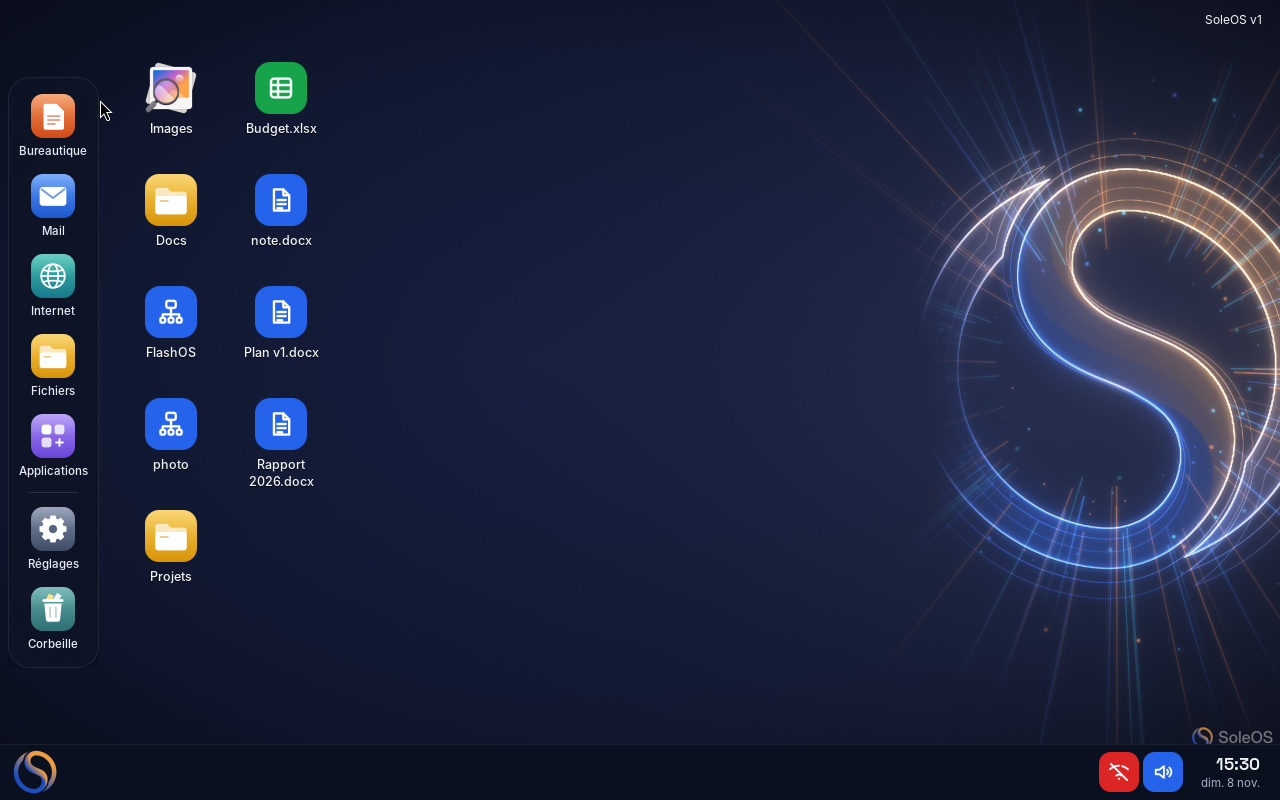
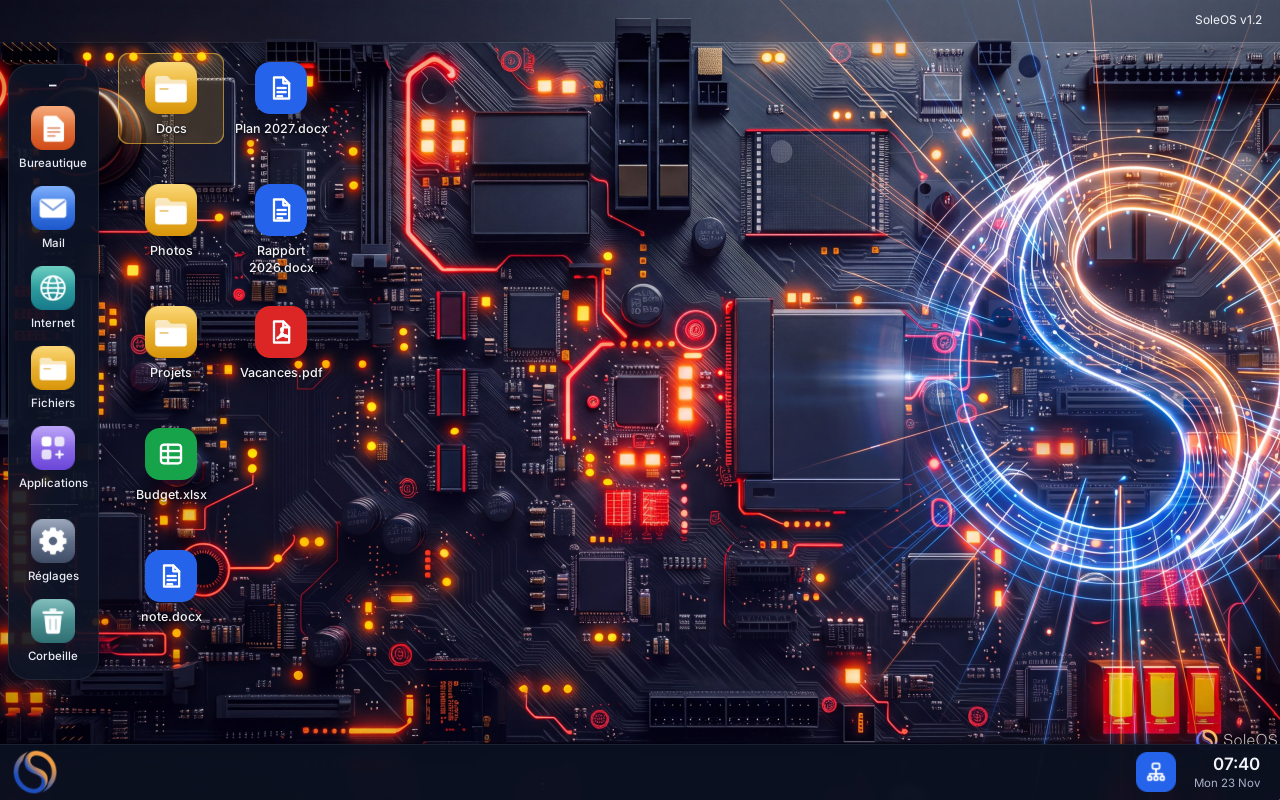
Update README (English) and screenshot

diff --git a/README.md b/README.md
@@ -1,26 +1,28 @@
-<p align="center"><img src="docs/captures/bureau.png" alt="Le bureau de SoleOS" width="720"></p>
+<p align="center"><img src="docs/captures/bureau.png" alt="The SoleOS desktop" width="720"></p>
+
+<p align="right"><a href="README.fr.md">Version française</a></p>
 
 # SoleOS
 
-**Un ordinateur simple, rapide et sûr, sans compte, sans publicité, sans télémétrie.**
-SoleOS est un système d'exploitation basé sur Debian 13, avec une interface écrite en Rust/GTK 4.
-Il est pensé pour les gens qui veulent un ordinateur qui marche, sans administration.
+**A simple, fast and secure computer: no account, no ads, no telemetry.**
+SoleOS is an operating system based on Debian 13, with an interface written in Rust/GTK 4.
+It is made for people who want a computer that just works, with no administration.
 
-*A simple, fast and private operating system based on Debian 13. Available in French, English, Italian, Spanish, German and Chinese.*
+**Download**: the latest version (an ISO to copy to a USB stick) is in [Releases](https://github.com/SoleOS-project/SoleOS/releases/latest).
 
-## Ce que fait SoleOS
+## What SoleOS does
 
-- **Facile** : une barre d'applications à gauche, un menu « S » en bas à gauche, des réglages en grandes cartes. Trois questions au premier démarrage, et c'est prêt.
-- **Vos fichiers sont chiffrés** : un code à 6 chiffres (puce TPM) ou un mot de passe, et une clé de secours sur papier.
-- **Mises à jour invisibles** : préparées sur une deuxième copie du système, appliquées au redémarrage, avec retour automatique en arrière en cas de problème.
-- **Sauvegarde en un clic** vers une clé USB, un disque ou un NAS, chaque semaine si vous le voulez. Rien n'est jamais effacé dans la sauvegarde.
-- **Mode grand confort** : textes plus grands et pointeur bien visible.
-- **Réparation intégrée** : remise à neuf du système en gardant vos fichiers (Réglages → Réparer ou réinitialiser).
-- **Nouvelle version sans tout réinstaller** (depuis la v1.2) : démarrez sur la clé de la nouvelle version et choisissez « Mettre à jour SoleOS » ; fichiers, applications, mails, navigateur, réglages et code sont gardés.
-- **Notifications** : nouveaux mails signalés par une enveloppe dans la barre du bas.
-- **Vie privée** : aucun compte, aucune télémétrie, rien n'est envoyé sans votre accord ; navigateur sans publicités ni traqueurs, cookies tiers bloqués.
-- **Applications** : LibreOffice, Thunderbird, Chromium, VLC, KeePassXC, et la logithèque Flathub ; paquets `.deb` et AppImage acceptés dans un espace séparé.
-- **6 langues** : français, anglais, italien, espagnol, allemand, chinois simplifié.
+- **Easy**: an app bar on the left, an “S” menu at the bottom left, settings shown as large cards. Three questions at first start, and you are ready.
+- **Your files are encrypted**: a 6-digit code (TPM chip) or a password, plus a recovery key on paper.
+- **Invisible updates**: prepared on a second copy of the system, applied at restart, with automatic rollback if something goes wrong.
+- **New versions without reinstalling** (since v1.2): start from the USB stick of the new version and choose “Update SoleOS”; files, apps, emails, browser, settings and code are all kept.
+- **One-click backup** to a USB stick, a disk or a NAS, every week if you like. Nothing is ever deleted from the backup.
+- **Notifications**: new emails shown by an envelope in the bottom bar.
+- **Comfort mode**: larger text and a highly visible pointer.
+- **Built-in repair**: the system is restored as new while your files are kept (Settings → Repair or reset).
+- **Privacy**: no account, no telemetry, nothing is sent without your consent; browser without ads or trackers, third-party cookies blocked.
+- **Apps**: LibreOffice, Thunderbird, Chromium, VLC, KeePassXC, and the Flathub catalogue; `.deb` packages and AppImages accepted in a separate space.
+- **6 languages**: French, English, Italian, Spanish, German, Simplified Chinese.
 
 <p align="center">
 <img src="docs/captures/reglages.png" width="400"> <img src="docs/captures/sauvegarde.png" width="400">
@@ -28,58 +30,58 @@ Il est pensé pour les gens qui veulent un ordinateur qui marche, sans administr
 
 ## Documentation
 
-- [Guide d'utilisation (PDF)](docs/SoleOS-v1-guide-utilisation.pdf)
-- [Fiche technique (PDF)](docs/SoleOS-v1-fiche-technique.pdf)
+- [User guide (PDF, French)](docs/SoleOS-v1-guide-utilisation.pdf)
+- [Technical sheet (PDF, French)](docs/SoleOS-v1-fiche-technique.pdf)
 
-## Configuration conseillée
+## Recommended hardware
 
-Processeur x86-64 (Intel, AMD), 4 Go de mémoire (8 Go conseillés), 32 Go de disque (SSD conseillé), UEFI (Secure Boot accepté) ou BIOS, puce TPM 2.0 conseillée. PC très récent : noyau récent proposé au démarrage de la clé (Échap) et dans Réglages → À propos.
+x86-64 processor (Intel, AMD), 4 GB of memory (8 GB recommended), 32 GB of disk (SSD recommended), UEFI (Secure Boot supported) or BIOS, TPM 2.0 chip recommended. Very recent PC: a recent kernel is offered when starting from the USB stick (Esc) and in Settings → About.
 
-## Fabriquer l'image ISO
+## Building the ISO image
 
-Sur une machine Debian 13 (amd64), en root, avec tout le contenu de ce dépôt dans un même dossier :
+On a Debian 13 (amd64) machine, as root, with the whole content of this repository in one folder:
 
 ```sh
 bash construire-iso-soleos.sh
 ```
 
-Résultat : `SoleOS-v1.2.iso` et son empreinte `SoleOS-v1.2.iso.sha256`. Copiez l'ISO sur une clé USB (par exemple avec `dd` ou Balena Etcher), démarrez dessus : la clé s'ouvre en mode essai, puis propose **Installer SoleOS sur cet ordinateur**.
+Result: `SoleOS-v1.2.iso` and its checksum `SoleOS-v1.2.iso.sha256`. Copy the ISO to a USB stick (for example with `dd` or balenaEtcher) and start from it: the stick opens in try mode, then offers **Install SoleOS on this computer** (or **Update SoleOS** if it is already installed).
 
-Recompiler l'interface (facultatif, les programmes compilés sont fournis) :
+Rebuilding the interface (optional, compiled programs are included):
 
 ```sh
 cd source/soleos-accueil && cargo build --release
 ```
 
-> Depuis la v1.1, tous les noms techniques sont `soleos-*` (commandes, services, partitions `SOLEOS-*`, `ID=soleos`). Les anciens noms `flashos-*` (nom de travail du projet) restent reconnus sur les ordinateurs installés avant la v1.1.
+> The source code, comments and file names are in French, the project's working language.
 
-## Contenu du dépôt
+## Repository content
 
-| Dossier / fichier | Rôle |
+| Folder / file | Purpose |
 |---|---|
-| `construire-iso-soleos.sh` | construction de l'ISO |
-| `soleos-accueil`, `soleos-applications`, `soleos-installateur`, `soleos-bluetooth` | interface compilée (Rust) |
-| `soleos-installer`, `soleos-systeme`, `soleos-securite` | outils système (bash) : installation, mises à jour A/B, chiffrement |
-| `source/` | code source de l'interface et des outils |
-| `locale/`, `po/` | traductions (6 langues) |
-| `fonds/`, `polices/`, `craft/` | fonds d'écran, polices, icônes |
-| `outils/` | logo, fichiers système, utilitaires |
-| `docs/` | guide, fiche technique, captures |
-| `chuwi-son/` | haut-parleurs du Chuwi CoreBook Air Plus : [Chuwi-CoreBook-Air-Audio-Fix](https://github.com/avrora13377/Chuwi-CoreBook-Air-Audio-Fix) (licence MIT, merci à ses auteurs) |
+| `construire-iso-soleos.sh` | ISO build script |
+| `soleos-accueil`, `soleos-applications`, `soleos-installateur`, `soleos-bluetooth` | compiled interface (Rust) |
+| `soleos-installer`, `soleos-systeme`, `soleos-securite` | system tools (bash): installation, A/B updates, encryption |
+| `source/` | source code of the interface and tools |
+| `locale/`, `po/` | translations (6 languages) |
+| `fonds/`, `polices/`, `craft/` | wallpapers, fonts, icons |
+| `outils/` | logo, system files, utilities |
+| `docs/` | guide, technical sheet, screenshots, test reports |
+| `chuwi-son/` | Chuwi CoreBook Air Plus speakers: [Chuwi-CoreBook-Air-Audio-Fix](https://github.com/avrora13377/Chuwi-CoreBook-Air-Audio-Fix) (MIT licence, thanks to its authors) |
 
-## Signaler un problème
+## Reporting a problem
 
-Dans SoleOS : menu **S** → **Signaler un problème** (un message est préparé avec un relevé technique, sans aucun mot de passe).
-Ou ouvrez une *issue* sur ce dépôt en décrivant l'ordinateur (marque, modèle) et le problème.
+In SoleOS: **S** menu → **Report a problem** (a message is prepared with a technical report, without any password).
+Or open an *issue* on this repository, describing the computer (brand, model) and the problem.
 
 ## Licence
 
-**SoleOS est gratuit, mais pas pour faire de l'argent avec.**
+**SoleOS is free, but not for making money with it.**
 
-- ✅ **Gratuit** pour les particuliers, les associations sans but lucratif (y compris lorsqu'elles revendent des ordinateurs reconditionnés), les écoles, les administrations, et l'usage interne des entreprises.
-- 💼 **Usage commercial** (vente d'ordinateurs équipés de SoleOS, service payant, intégration dans un produit…) : une licence est nécessaire. Contact : **gdarco7@gmail.com**
+- ✅ **Free** for individuals, non-profit associations (including when they sell refurbished computers), schools, public administrations, and internal use in companies.
+- 💼 **Commercial use** (selling computers with SoleOS, paid services, integration into a product…): a licence is required. Contact: **gdarco7@gmail.com**
 
-Licence : [PolyForm Noncommercial 1.0.0](https://polyformproject.org/licenses/noncommercial/1.0.0/) avec autorisations supplémentaires, voir [LICENSE](LICENSE).
-SoleOS est fourni « tel quel », sans garantie. Les logiciels tiers inclus (Debian, LibreOffice, Chromium…) gardent leurs propres licences.
+Licence: [PolyForm Noncommercial 1.0.0](https://polyformproject.org/licenses/noncommercial/1.0.0/) with additional permissions, see [LICENSE](LICENSE).
+SoleOS is provided “as is”, without warranty. Included third-party software (Debian, LibreOffice, Chromium…) keeps its own licences.
 
-© 2026 GDH — créé par Giuseppe D'Arco.
+© 2026 GDH — created by Giuseppe D'Arco.

diff --git a/README.fr.md b/README.fr.md
@@ -1,0 +1,87 @@
+<p align="center"><img src="docs/captures/bureau.png" alt="Le bureau de SoleOS" width="720"></p>
+
+<p align="right"><a href="README.md">English version</a></p>
+
+# SoleOS
+
+**Un ordinateur simple, rapide et sûr, sans compte, sans publicité, sans télémétrie.**
+SoleOS est un système d'exploitation basé sur Debian 13, avec une interface écrite en Rust/GTK 4.
+Il est pensé pour les gens qui veulent un ordinateur qui marche, sans administration.
+
+**Télécharger** : la dernière version (ISO à copier sur une clé USB) est dans [Releases](https://github.com/SoleOS-project/SoleOS/releases/latest).
+
+## Ce que fait SoleOS
+
+- **Facile** : une barre d'applications à gauche, un menu « S » en bas à gauche, des réglages en grandes cartes. Trois questions au premier démarrage, et c'est prêt.
+- **Vos fichiers sont chiffrés** : un code à 6 chiffres (puce TPM) ou un mot de passe, et une clé de secours sur papier.
+- **Mises à jour invisibles** : préparées sur une deuxième copie du système, appliquées au redémarrage, avec retour automatique en arrière en cas de problème.
+- **Sauvegarde en un clic** vers une clé USB, un disque ou un NAS, chaque semaine si vous le voulez. Rien n'est jamais effacé dans la sauvegarde.
+- **Mode grand confort** : textes plus grands et pointeur bien visible.
+- **Réparation intégrée** : remise à neuf du système en gardant vos fichiers (Réglages → Réparer ou réinitialiser).
+- **Nouvelle version sans tout réinstaller** (depuis la v1.2) : démarrez sur la clé de la nouvelle version et choisissez « Mettre à jour SoleOS » ; fichiers, applications, mails, navigateur, réglages et code sont gardés.
+- **Notifications** : nouveaux mails signalés par une enveloppe dans la barre du bas.
+- **Vie privée** : aucun compte, aucune télémétrie, rien n'est envoyé sans votre accord ; navigateur sans publicités ni traqueurs, cookies tiers bloqués.
+- **Applications** : LibreOffice, Thunderbird, Chromium, VLC, KeePassXC, et la logithèque Flathub ; paquets `.deb` et AppImage acceptés dans un espace séparé.
+- **6 langues** : français, anglais, italien, espagnol, allemand, chinois simplifié.
+
+<p align="center">
+<img src="docs/captures/reglages.png" width="400"> <img src="docs/captures/sauvegarde.png" width="400">
+</p>
+
+## Documentation
+
+- [Guide d'utilisation (PDF)](docs/SoleOS-v1-guide-utilisation.pdf)
+- [Fiche technique (PDF)](docs/SoleOS-v1-fiche-technique.pdf)
+
+## Configuration conseillée
+
+Processeur x86-64 (Intel, AMD), 4 Go de mémoire (8 Go conseillés), 32 Go de disque (SSD conseillé), UEFI (Secure Boot accepté) ou BIOS, puce TPM 2.0 conseillée. PC très récent : noyau récent proposé au démarrage de la clé (Échap) et dans Réglages → À propos.
+
+## Fabriquer l'image ISO
+
+Sur une machine Debian 13 (amd64), en root, avec tout le contenu de ce dépôt dans un même dossier :
+
+```sh
+bash construire-iso-soleos.sh
+```
+
+Résultat : `SoleOS-v1.2.iso` et son empreinte `SoleOS-v1.2.iso.sha256`. Copiez l'ISO sur une clé USB (par exemple avec `dd` ou Balena Etcher), démarrez dessus : la clé s'ouvre en mode essai, puis propose **Installer SoleOS sur cet ordinateur**.
+
+Recompiler l'interface (facultatif, les programmes compilés sont fournis) :
+
+```sh
+cd source/soleos-accueil && cargo build --release
+```
+
+> Depuis la v1.1, tous les noms techniques sont `soleos-*` (commandes, services, partitions `SOLEOS-*`, `ID=soleos`). Les anciens noms `flashos-*` (nom de travail du projet) restent reconnus sur les ordinateurs installés avant la v1.1.
+
+## Contenu du dépôt
+
+| Dossier / fichier | Rôle |
+|---|---|
+| `construire-iso-soleos.sh` | construction de l'ISO |
+| `soleos-accueil`, `soleos-applications`, `soleos-installateur`, `soleos-bluetooth` | interface compilée (Rust) |
+| `soleos-installer`, `soleos-systeme`, `soleos-securite` | outils système (bash) : installation, mises à jour A/B, chiffrement |
+| `source/` | code source de l'interface et des outils |
+| `locale/`, `po/` | traductions (6 langues) |
+| `fonds/`, `polices/`, `craft/` | fonds d'écran, polices, icônes |
+| `outils/` | logo, fichiers système, utilitaires |
+| `docs/` | guide, fiche technique, captures |
+| `chuwi-son/` | haut-parleurs du Chuwi CoreBook Air Plus : [Chuwi-CoreBook-Air-Audio-Fix](https://github.com/avrora13377/Chuwi-CoreBook-Air-Audio-Fix) (licence MIT, merci à ses auteurs) |
+
+## Signaler un problème
+
+Dans SoleOS : menu **S** → **Signaler un problème** (un message est préparé avec un relevé technique, sans aucun mot de passe).
+Ou ouvrez une *issue* sur ce dépôt en décrivant l'ordinateur (marque, modèle) et le problème.
+
+## Licence
+
+**SoleOS est gratuit, mais pas pour faire de l'argent avec.**
+
+- ✅ **Gratuit** pour les particuliers, les associations sans but lucratif (y compris lorsqu'elles revendent des ordinateurs reconditionnés), les écoles, les administrations, et l'usage interne des entreprises.
+- 💼 **Usage commercial** (vente d'ordinateurs équipés de SoleOS, service payant, intégration dans un produit…) : une licence est nécessaire. Contact : **gdarco7@gmail.com**
+
+Licence : [PolyForm Noncommercial 1.0.0](https://polyformproject.org/licenses/noncommercial/1.0.0/) avec autorisations supplémentaires, voir [LICENSE](LICENSE).
+SoleOS est fourni « tel quel », sans garantie. Les logiciels tiers inclus (Debian, LibreOffice, Chromium…) gardent leurs propres licences.
+
+© 2026 GDH — créé par Giuseppe D'Arco.
